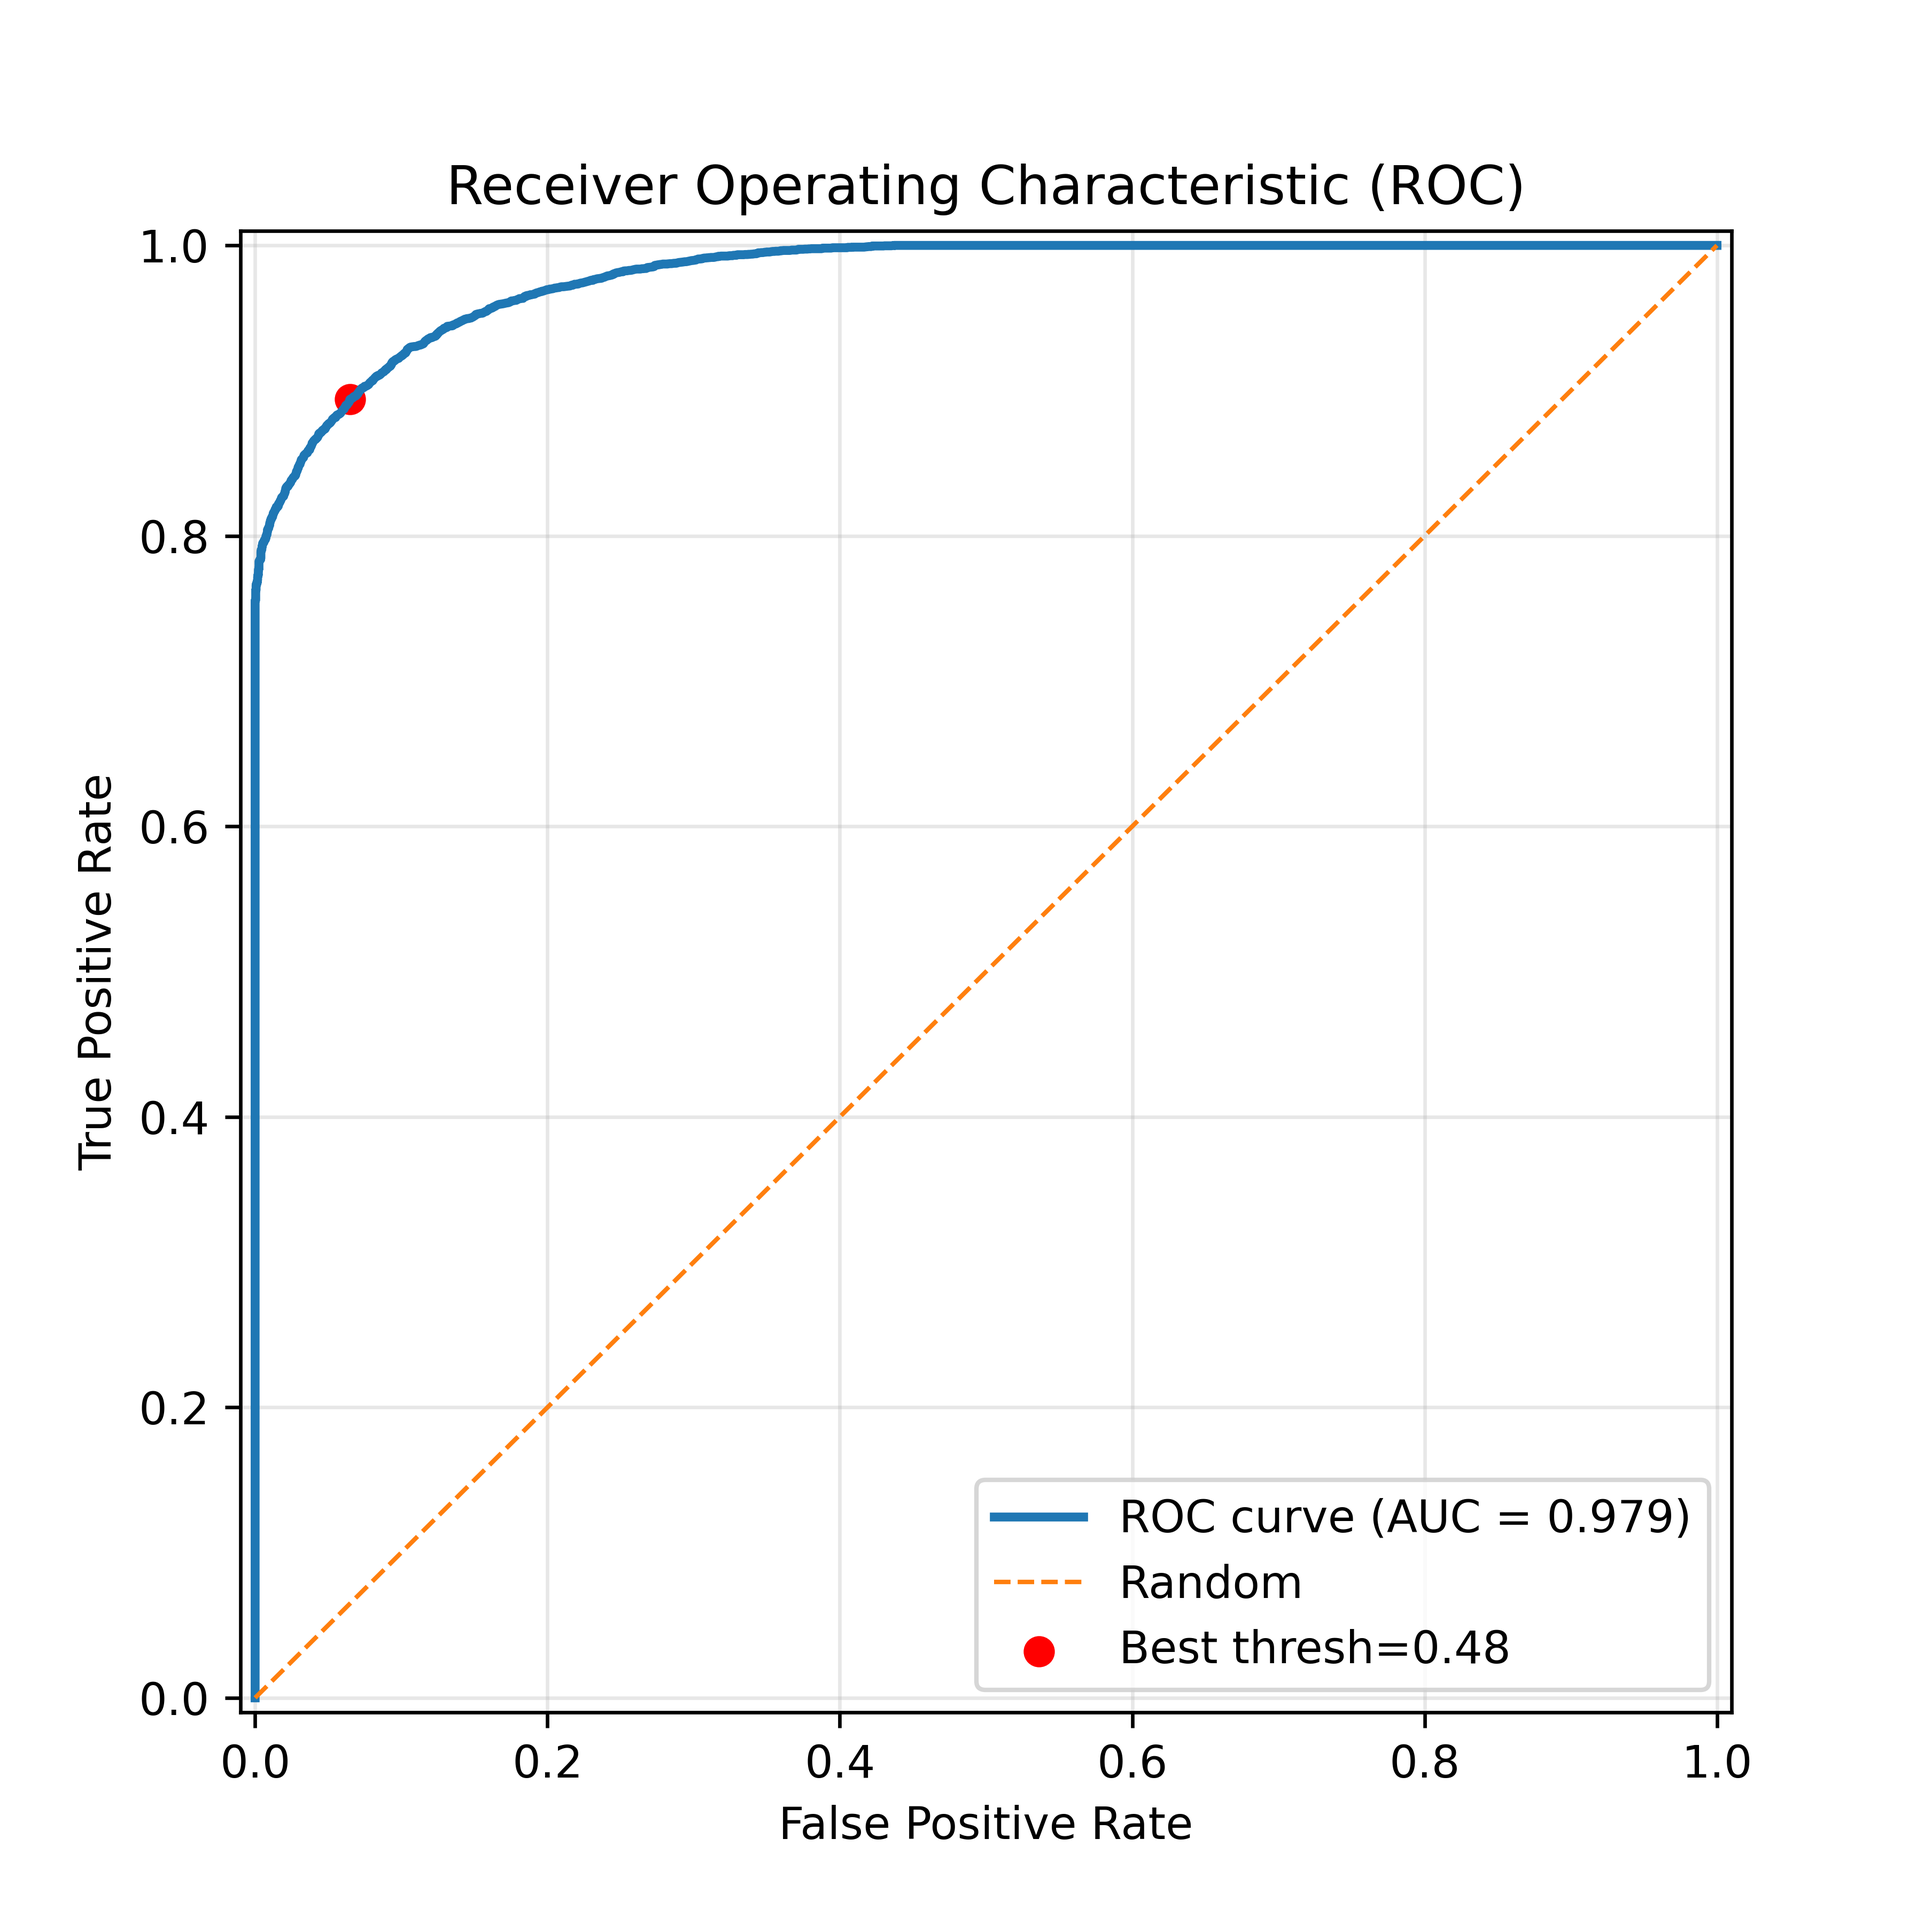
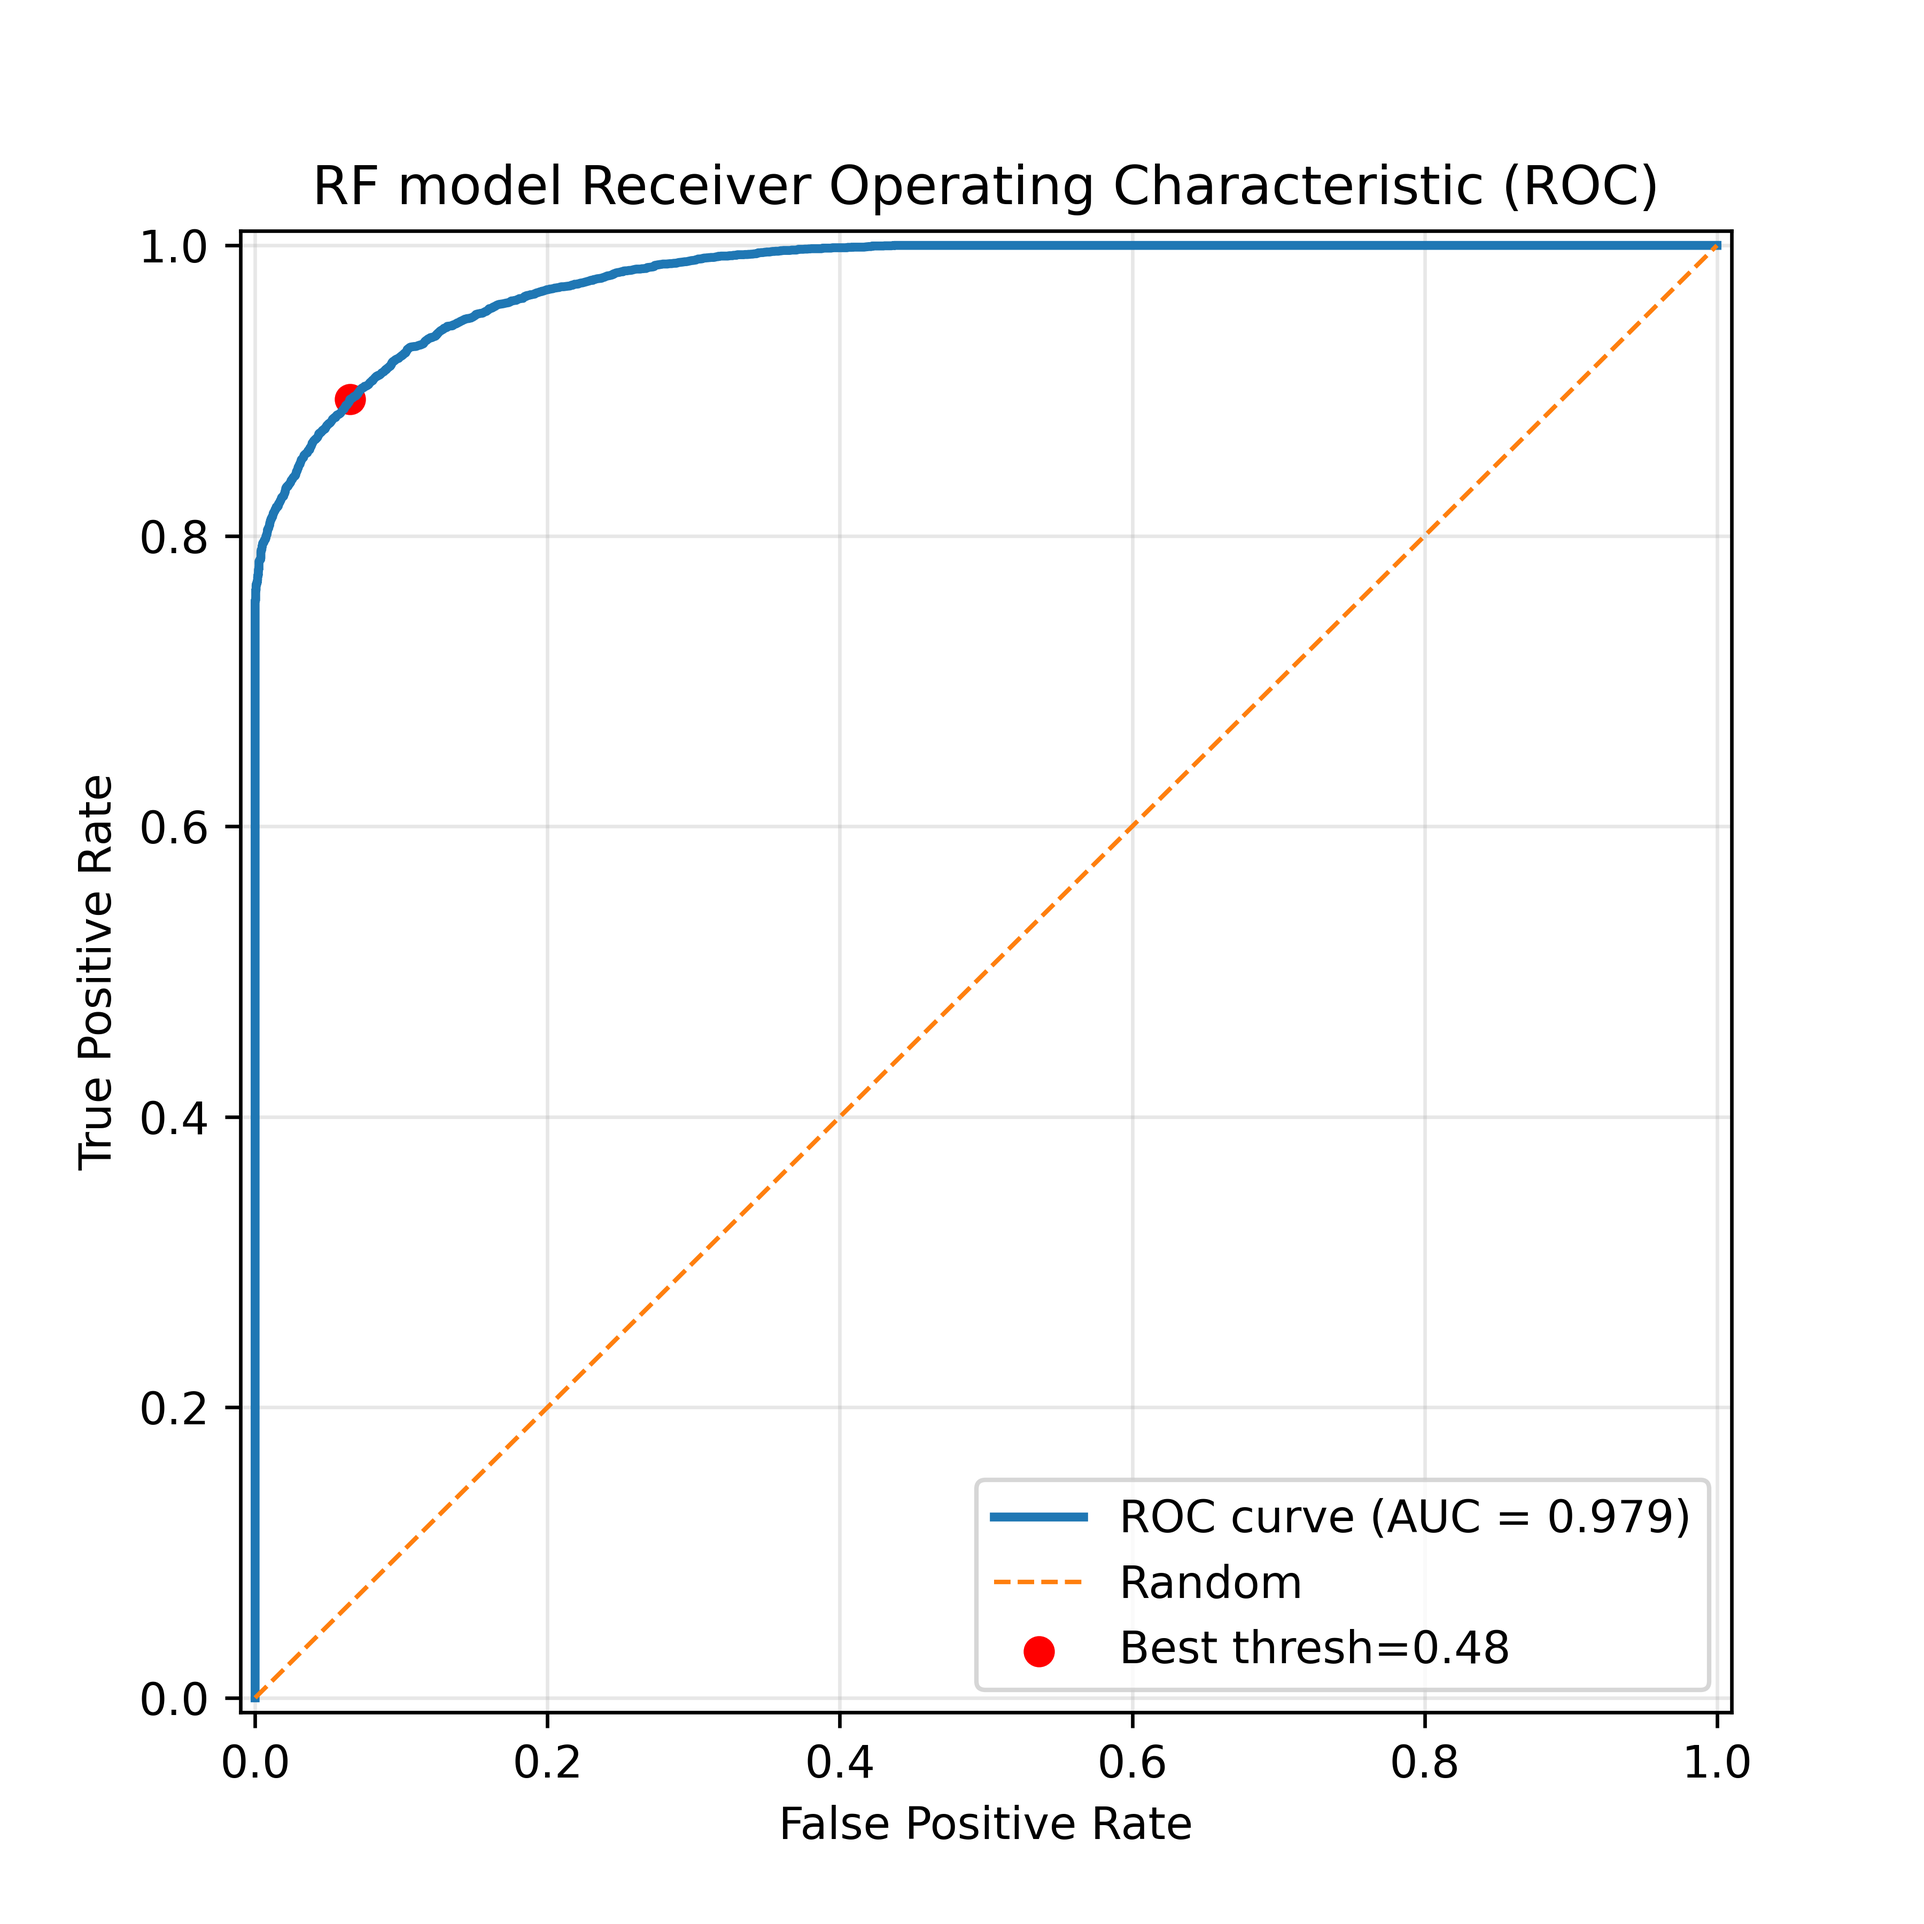
file

Changed region(s): [[0.2178, 0.0622, 0.84, 0.1244], [0.1556, 0.0933, 0.1867, 0.1244]]

diff --git a/bin/ROC/03_cnn_roc.py b/bin/ROC/03_cnn_roc.py
@@ -1,0 +1,133 @@
+import torch
+import torch.nn as nn
+import torch.nn.functional as F
+import numpy as np
+# import torchvision.transforms as transforms
+# import torchvision.datasets as datasets
+from torch.utils.data import DataLoader, random_split, Dataset
+from sklearn.metrics import roc_curve, auc
+import matplotlib.pyplot as plt
+
+torch.manual_seed(0)
+device = torch.device('cuda' if torch.cuda.is_available() else 'cpu')
+# Define hyperparameters.
+
+# input_size = 34 * 4
+output_size = 2
+hidden_layer = 20000
+
+learning_rate = 0.001
+num_epochs = 16
+batch_size = 256
+
+
+class ToTensor:
+    def __call__(self, sample):
+        x, y = sample
+        x = [[float(k) for k in i] for i in x]
+        x = torch.tensor([x]).reshape(1, 8, -1)
+        return x, torch.tensor(y)
+
+
+class RNA(Dataset):
+    def __init__(self, name, transform=None):
+        f = open(name, 'r')
+        ls = [[k for k in i.split('\n') if k] for i in f.read().split('>') if i]
+        f.close()
+        self.x = [i[2:] for i in ls]
+        self.y = [int(i[0].split('\t')[-1]) for i in ls]
+        self.n_samples = len(self.x)
+        self.transform = transform
+
+    def __getitem__(self, index):
+        sample = self.x[index], self.y[index]
+        if self.transform:
+            sample = self.transform(sample)
+        return sample
+
+    def __len__(self):
+        return self.n_samples
+
+
+# Define CNN model.
+class CNN(nn.Module):
+    def __init__(self):
+        super(CNN, self).__init__()
+        self.conv1 = nn.Conv2d(1, 32, kernel_size=3, padding=1)
+        self.conv2 = nn.Conv2d(32, 64, kernel_size=3, padding=1)
+        self.conv3 = nn.Conv2d(64, 128, kernel_size=3, padding=1)
+        self.pool = nn.MaxPool2d(2, 2)
+        self.fc1 = nn.Linear(128 * 1 * 2, hidden_layer)
+        self.fc2 = nn.Linear(hidden_layer, output_size)
+        self.relu = nn.ReLU()
+
+    def forward(self, x):
+        x = self.conv1(x)
+        x = self.relu(x)
+        x = self.pool(x)
+        x = self.conv2(x)
+        x = self.relu(x)
+        x = self.pool(x)
+        x = self.conv3(x)
+        x = self.relu(x)
+        x = self.pool(x)
+        # print(x.shape)
+        x = x.view(-1, 128 * 1 * 2)
+        x = self.fc1(x)
+        x = self.relu(x)
+        x = self.fc2(x)
+        return x
+
+
+def test(model, test_dataset):
+    global batch_size, device, path
+    y_score, y_true = [], []
+    with torch.no_grad():
+        test_loader = DataLoader(test_dataset, batch_size=batch_size, shuffle=False)
+        n_correct, n_samples = 0, 0
+        all_predictions, all_labels = [], []
+        for images, labels in test_loader:
+            images = images.to(device)
+            labels = labels.to(device)
+            outputs = model(images).to(device)
+            y_score += list(F.softmax(outputs, dim=1)[:, 1].to('cpu'))
+            y_true += list(labels.to('cpu'))
+    return y_true, y_score
+
+
+train_dataset = RNA('../../data/animal_plant_dataset/rna_train.txt', transform=ToTensor())
+test_dataset = RNA('../../data/animal_plant_dataset/rna_test.txt', transform=ToTensor())
+train_loader = DataLoader(train_dataset, batch_size=batch_size, shuffle=True, generator=torch.manual_seed(0))
+output_file_path = '../../models_results/ROC/cnn_roc.png'
+model = torch.load('../../models_results/animal_plant/model_cnn.pkl', weights_only=False).to(device)
+
+y_true, y_score = test(model, test_dataset)
+
+fpr, tpr, thresholds = roc_curve(y_true, y_score)
+roc_auc = auc(fpr, tpr)
+
+print("FPR:", fpr)
+print("TPR:", tpr)
+print("Thresholds:", thresholds)
+print(f"AUC = {roc_auc:.4f}")
+
+# 找最佳阈值（Youden index: maximize TPR - FPR）
+youden_index = tpr - fpr
+best_idx = np.argmax(youden_index)
+best_threshold = thresholds[best_idx]
+print(f"Best threshold (Youden): {best_threshold:.4f}, TPR={tpr[best_idx]:.3f}, FPR={fpr[best_idx]:.3f}")
+
+# 画 ROC 曲线
+plt.figure(figsize=(6, 6))
+plt.plot(fpr, tpr, lw=2, label=f"ROC curve (AUC = {roc_auc:.3f})")
+plt.plot([0, 1], [0, 1], linestyle='--', lw=1, label='Random')
+plt.scatter(fpr[best_idx], tpr[best_idx], c='red', label=f'Best thresh={best_threshold:.2f}')
+plt.xlim([-0.01, 1.01])
+plt.ylim([-0.01, 1.01])
+plt.xlabel('False Positive Rate')
+plt.ylabel('True Positive Rate')
+plt.title('CNN model Receiver Operating Characteristic (ROC)')
+plt.legend(loc='lower right')
+plt.grid(alpha=0.3)
+plt.savefig(output_file_path, dpi=600)
+plt.close()

diff --git a/bin/ROC/02_nn_ROC.py b/bin/ROC/02_nn_ROC.py
@@ -1,0 +1,126 @@
+import torch
+import torch.nn as nn
+import numpy as np
+import torch.nn.functional as F
+from torch.utils.data import DataLoader, Dataset
+from sklearn.metrics import roc_curve, auc
+import matplotlib.pyplot as plt
+
+torch.manual_seed(0)
+device = torch.device('cuda' if torch.cuda.is_available() else 'cpu')
+# Define hyperparameters.
+nn_num = 50
+input_size = 34 * 4
+hidden_size = [2000, 2000, 2000]
+output_size = 2
+
+learning_rate = 0.0001
+num_epochs = 16
+batch_size = 512
+
+
+class ToTensor:
+    def __call__(self, sample):
+        x, y = sample
+        x = torch.tensor([[float(k) for k in i] for i in x])
+        return x, torch.tensor(y)
+
+
+class RNA(Dataset):
+    def __init__(self, name, transform=None):
+        f = open(name, 'r')
+        ls = [[k for k in i.split('\n') if k] for i in f.read().split('>') if i]
+        f.close()
+        self.x = [i[2:] for i in ls]
+        self.y = [int(i[0].split('\t')[-1]) for i in ls]
+        self.n_samples = len(self.x)
+        self.transform = transform
+
+    def __getitem__(self, index):
+        sample = self.x[index], self.y[index]
+        if self.transform:
+            sample = self.transform(sample)
+        return sample
+
+    def __len__(self):
+        return self.n_samples
+
+
+# Define NN model.
+class NeuralNet(nn.Module):
+    def __init__(self, input_size, hidden_size, output_size):
+        super(NeuralNet, self).__init__()
+        self.relu = nn.LeakyReLU()
+        self.sigmoid = nn.Sigmoid()
+        self.l1 = nn.Linear(input_size, hidden_size[0])
+        self.l2 = nn.Linear(hidden_size[0], hidden_size[1])
+        self.l3 = nn.Linear(hidden_size[1], hidden_size[2])
+        self.l_end = nn.Linear(hidden_size[-1], output_size)
+
+    def forward(self, x):
+        x = x.reshape(-1, input_size)
+        out = self.l1(x)
+        out = self.relu(out)
+        out = self.l2(out)
+        out = self.relu(out)
+        out = self.l3(out)
+        out = self.relu(out)
+        out = self.l_end(out)
+        return out
+
+
+def test(model, test_dataset):
+    global batch_size, device, path
+    y_score, y_true = [], []
+    with torch.no_grad():
+        test_loader = DataLoader(test_dataset, batch_size=batch_size, shuffle=False)
+        n_correct, n_samples = 0, 0
+        all_predictions, all_labels = [], []
+
+        for images, labels in test_loader:
+            images = images.to(device)
+            labels = labels.to(device)
+            outputs = model(images).to(device)
+            y_score += list(F.softmax(outputs, dim=1)[:, 1].to('cpu'))
+            y_true += list(labels.to('cpu'))
+        return y_true, y_score
+
+
+
+
+train_dataset = RNA('../../data/animal_plant_dataset/rna_train.txt', transform=ToTensor())
+test_dataset = RNA('../../data/animal_plant_dataset/rna_test.txt', transform=ToTensor())
+train_loader = DataLoader(train_dataset, batch_size=batch_size, shuffle=True, generator=torch.manual_seed(0))
+model = torch.load('../../models_results/animal_plant/model_nn.pkl', weights_only=False).to(device)
+output_file_path = '../../models_results/ROC/nn_roc.png'
+
+y_true, y_score = test(model, test_dataset)
+
+fpr, tpr, thresholds = roc_curve(y_true, y_score)
+roc_auc = auc(fpr, tpr)
+
+print("FPR:", fpr)
+print("TPR:", tpr)
+print("Thresholds:", thresholds)
+print(f"AUC = {roc_auc:.4f}")
+
+# 找最佳阈值（Youden index: maximize TPR - FPR）
+youden_index = tpr - fpr
+best_idx = np.argmax(youden_index)
+best_threshold = thresholds[best_idx]
+print(f"Best threshold (Youden): {best_threshold:.4f}, TPR={tpr[best_idx]:.3f}, FPR={fpr[best_idx]:.3f}")
+
+# 画 ROC 曲线
+plt.figure(figsize=(6, 6))
+plt.plot(fpr, tpr, lw=2, label=f"ROC curve (AUC = {roc_auc:.3f})")
+plt.plot([0, 1], [0, 1], linestyle='--', lw=1, label='Random')
+plt.scatter(fpr[best_idx], tpr[best_idx], c='red', label=f'Best thresh={best_threshold:.2f}')
+plt.xlim([-0.01, 1.01])
+plt.ylim([-0.01, 1.01])
+plt.xlabel('False Positive Rate')
+plt.ylabel('True Positive Rate')
+plt.title('NN model Receiver Operating Characteristic (ROC)')
+plt.legend(loc='lower right')
+plt.grid(alpha=0.3)
+plt.savefig(output_file_path, dpi=600)
+plt.close()

diff --git a/bin/ROC/01_rf_roc.py b/bin/ROC/01_rf_roc.py
@@ -111,7 +111,7 @@ if __name__ == "__main__":
     plt.ylim([-0.01, 1.01])
     plt.xlabel('False Positive Rate')
     plt.ylabel('True Positive Rate')
-    plt.title('Receiver Operating Characteristic (ROC)')
+    plt.title('RF model Receiver Operating Characteristic (ROC)')
     plt.legend(loc='lower right')
     plt.grid(alpha=0.3)
     plt.savefig(output_file_path, dpi=600)
